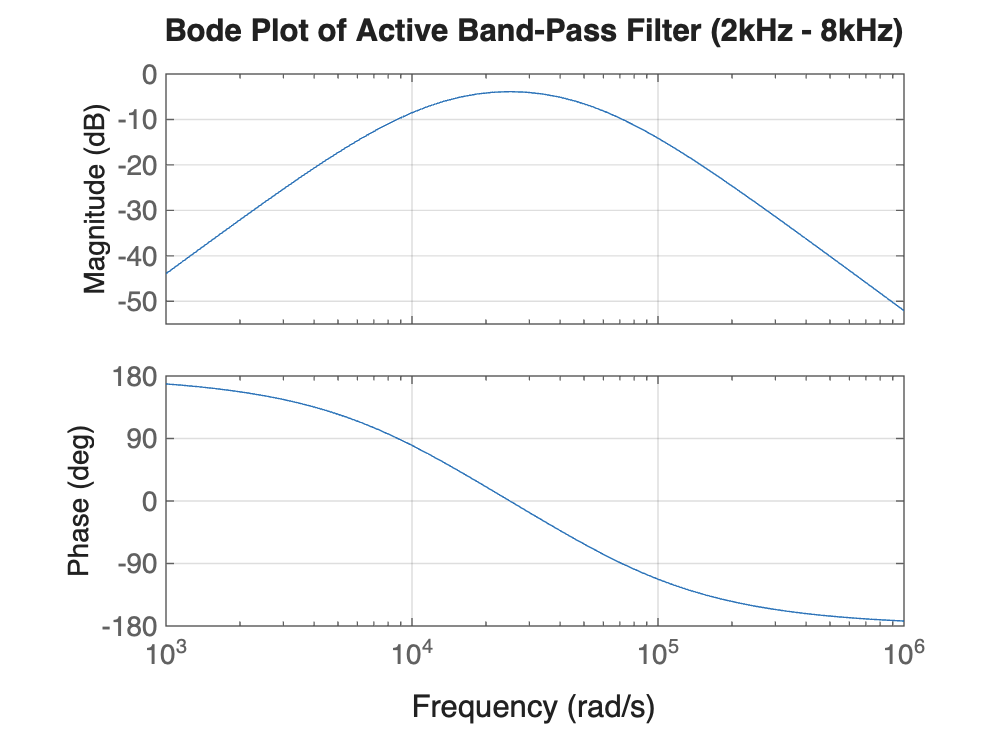
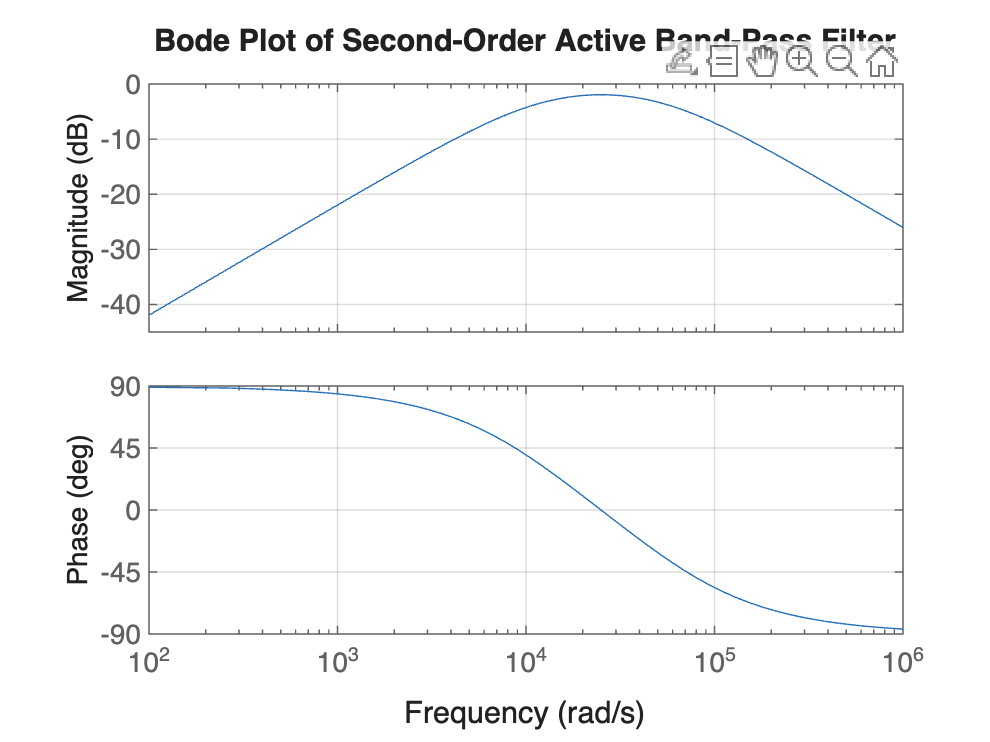
Added Band Pass FIlter & OP Amp correct pin

diff --git a/Active-Band-Pass-Filter/bpf.m b/Active-Band-Pass-Filter/bpf.m
@@ -1,23 +1,20 @@
-clc; 
-clear; 
+clc;
+clear;
 close all;
 
-
 % High-Pass Section (2 kHz)
-R1 = 800;   % 800Ω
-R2 = 800;   % 800Ω
-C1 = 0.1e-6; % 0.1µF (100nF)
-C2 = 0.1e-6; % 0.1µF (100nF)
+R1 = 800;   % 800Ω 
+R4 = 800;   % 800Ω 
+C2 = 0.1e-6; % 0.1µF 
 
 % Low-Pass Section (8 kHz)
-R3 = 200;   % 200Ω
-R4 = 200;   % 200Ω
-C3 = 0.1e-6; % 0.1µF (100nF)
-C4 = 0.1e-6; % 0.1µF (100nF)
+R5 = 200;   % 200Ω 
+C3 = 0.1e-6; % 0.1µF 
 
 % Compute Cutoff Frequencies
-fc_low = 1 / (2 * pi * sqrt(R3 * R4 * C3 * C4));
-fc_high = 1 / (2 * pi * sqrt(R1 * R2 * C1 * C2));
+fc_high = 1 / (2 * pi * R1 * C2); 
+fc_low = 1 / (2 * pi * R5 * C3); 
+
 fprintf('High-Pass Cutoff: %.2f Hz\n', fc_high);
 fprintf('Low-Pass Cutoff: %.2f Hz\n', fc_low);
 
@@ -25,10 +22,10 @@ fprintf('Low-Pass Cutoff: %.2f Hz\n', fc_low);
 s = tf('s');
 
 % High-Pass Filter Transfer Function
-HPF = (R1 * R2 * C1 * C2 * s^2) / (R1 * R2 * C1 * C2 * s^2 + (R1 + R2) * C1 * s + 1);
+HPF = (R1 * C2 * s) / (R1 * C2 * s + 1);
 
 % Low-Pass Filter Transfer Function
-LPF = 1 / (R3 * R4 * C3 * C4 * s^2 + (R3 + R4) * C3 * s + 1);
+LPF = 1 / (R5 * C3 * s + 1);
 
 % Combined Band-Pass Filter
 BPF = HPF * LPF;
@@ -37,19 +34,19 @@ BPF = HPF * LPF;
 figure;
 bode(BPF);
 grid on;
-title('Bode Plot of Active Band-Pass Filter (2kHz - 8kHz)');
+title('Bode Plot of Second-Order Active Band-Pass Filter');
 
 % Frequency Response (Magnitude Plot)
 figure;
-freqs([1, 0, 0], [R1 * R2 * C1 * C2, (R1 + R2) * C1, 1]); % High-Pass
+freqs([1, 0], [R1 * C2, 1]); % High-Pass
 hold on;
-freqs([1], [R3 * R4 * C3 * C4, (R3 + R4) * C3, 1]); % Low-Pass
+freqs([1], [R5 * C3, 1]); % Low-Pass
 grid on;
-title('Frequency Response of Active Band-Pass Filter (2kHz - 8kHz)');
+title('Frequency Response of Second-Order Active Band-Pass Filter');
 legend('High-Pass', 'Low-Pass');
 
 % Step Response
 figure;
 step(BPF);
 grid on;
-title('Step Response of Active Band-Pass Filter (2kHz - 8kHz)');
+title('Step Response of Second-Order Active Band-Pass Filter');

diff --git a/Active-Band-Pass-Filter/README.md b/Active-Band-Pass-Filter/README.md
@@ -3,26 +3,23 @@
 ## MATLAB Test:-
 
 ```bash
-clc; 
-clear; 
+clc;
+clear;
 close all;
 
-
 % High-Pass Section (2 kHz)
-R1 = 800;   % 800Ω
-R2 = 800;   % 800Ω
-C1 = 0.1e-6; % 0.1µF (100nF)
-C2 = 0.1e-6; % 0.1µF (100nF)
+R1 = 800;   % 800Ω 
+R4 = 800;   % 800Ω 
+C2 = 0.1e-6; % 0.1µF 
 
 % Low-Pass Section (8 kHz)
-R3 = 200;   % 200Ω
-R4 = 200;   % 200Ω
-C3 = 0.1e-6; % 0.1µF (100nF)
-C4 = 0.1e-6; % 0.1µF (100nF)
+R5 = 200;   % 200Ω 
+C3 = 0.1e-6; % 0.1µF 
 
 % Compute Cutoff Frequencies
-fc_low = 1 / (2 * pi * sqrt(R3 * R4 * C3 * C4));
-fc_high = 1 / (2 * pi * sqrt(R1 * R2 * C1 * C2));
+fc_high = 1 / (2 * pi * R1 * C2); 
+fc_low = 1 / (2 * pi * R5 * C3); 
+
 fprintf('High-Pass Cutoff: %.2f Hz\n', fc_high);
 fprintf('Low-Pass Cutoff: %.2f Hz\n', fc_low);
 
@@ -30,10 +27,10 @@ fprintf('Low-Pass Cutoff: %.2f Hz\n', fc_low);
 s = tf('s');
 
 % High-Pass Filter Transfer Function
-HPF = (R1 * R2 * C1 * C2 * s^2) / (R1 * R2 * C1 * C2 * s^2 + (R1 + R2) * C1 * s + 1);
+HPF = (R1 * C2 * s) / (R1 * C2 * s + 1);
 
 % Low-Pass Filter Transfer Function
-LPF = 1 / (R3 * R4 * C3 * C4 * s^2 + (R3 + R4) * C3 * s + 1);
+LPF = 1 / (R5 * C3 * s + 1);
 
 % Combined Band-Pass Filter
 BPF = HPF * LPF;
@@ -42,23 +39,29 @@ BPF = HPF * LPF;
 figure;
 bode(BPF);
 grid on;
-title('Bode Plot of Active Band-Pass Filter (2kHz - 8kHz)');
+title('Bode Plot of Second-Order Active Band-Pass Filter');
 
 % Frequency Response (Magnitude Plot)
 figure;
-freqs([1, 0, 0], [R1 * R2 * C1 * C2, (R1 + R2) * C1, 1]); % High-Pass
+freqs([1, 0], [R1 * C2, 1]); % High-Pass
 hold on;
-freqs([1], [R3 * R4 * C3 * C4, (R3 + R4) * C3, 1]); % Low-Pass
+freqs([1], [R5 * C3, 1]); % Low-Pass
 grid on;
-title('Frequency Response of Active Band-Pass Filter (2kHz - 8kHz)');
+title('Frequency Response of Second-Order Active Band-Pass Filter');
 legend('High-Pass', 'Low-Pass');
 
 % Step Response
 figure;
 step(BPF);
 grid on;
-title('Step Response of Active Band-Pass Filter (2kHz - 8kHz)');
+title('Step Response of Second-Order Active Band-Pass Filter');
 ```
+<br>
+<br>
+<br>
+
+<img src="./img/bpfcckt.png">
+
 <br>
 <br>
 <br>

diff --git a/Active-High-Pass-Filter/README.md b/Active-High-Pass-Filter/README.md
@@ -46,7 +46,7 @@ title('Step Response of Active High-Pass Filter (4kHz)');
 <br>
 
 
-<img src="./img/hpf-ckt.png">
+<img src="./img/hpfckt.png">
 
 <br>
 <br>

diff --git a/Active-Low-Pass-Filter/README.md b/Active-Low-Pass-Filter/README.md
@@ -46,7 +46,7 @@ title('Step Response of Active Low-Pass Filter (8kHz)');
 <br>
 
 
-<img src="./img/lpf-ckt.png">
+<img src="./img/lpfckt.png">
 
 <br>
 <br>
